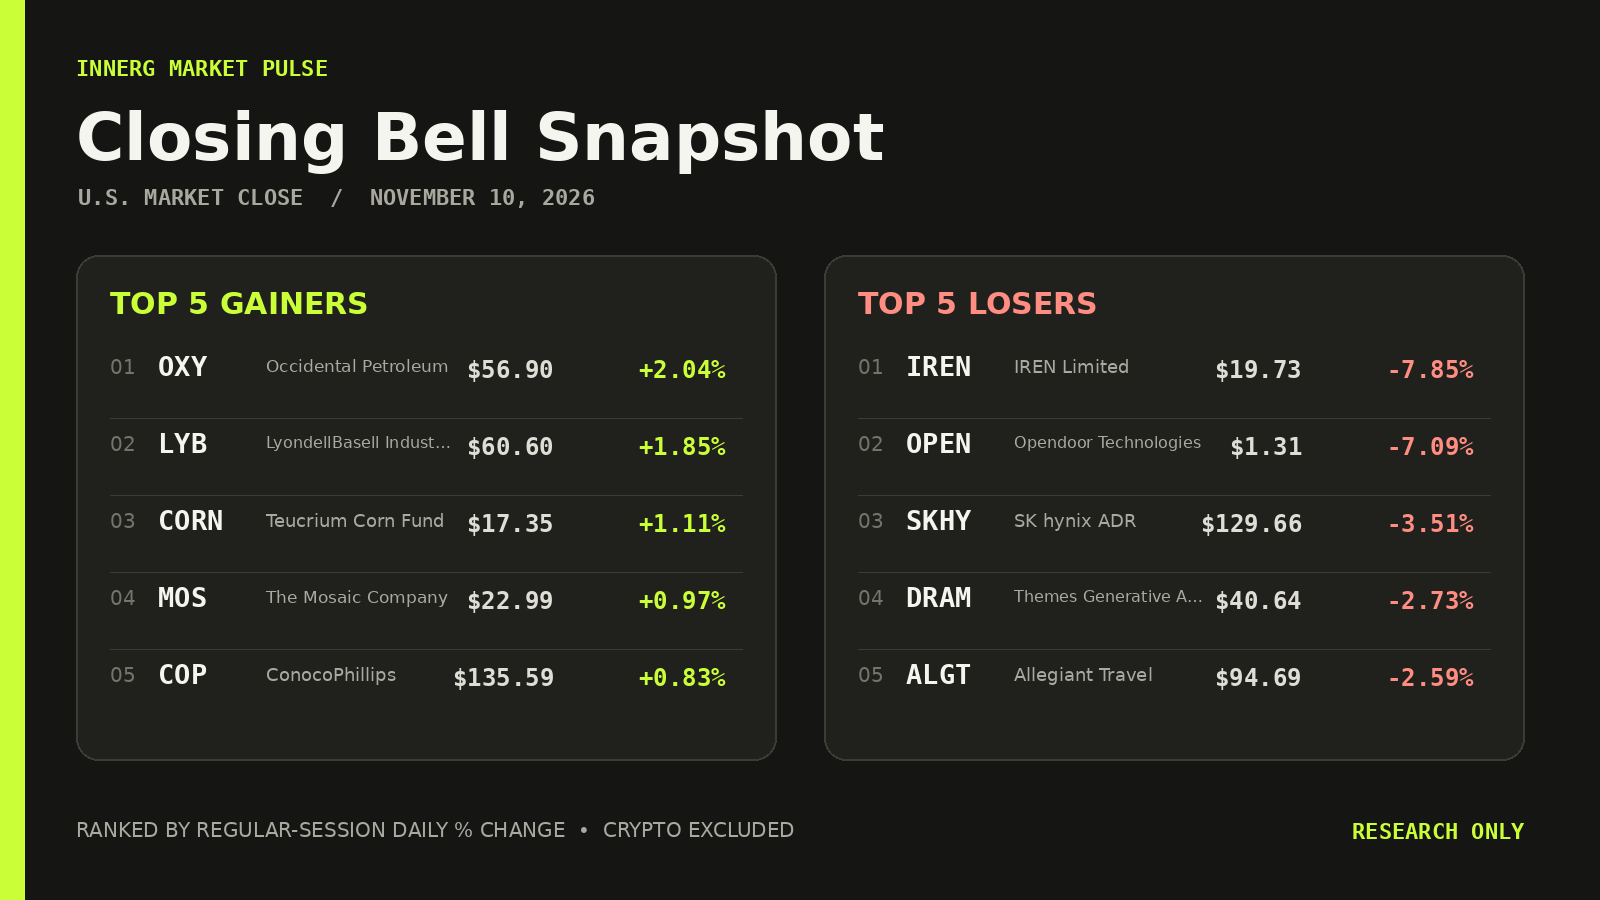
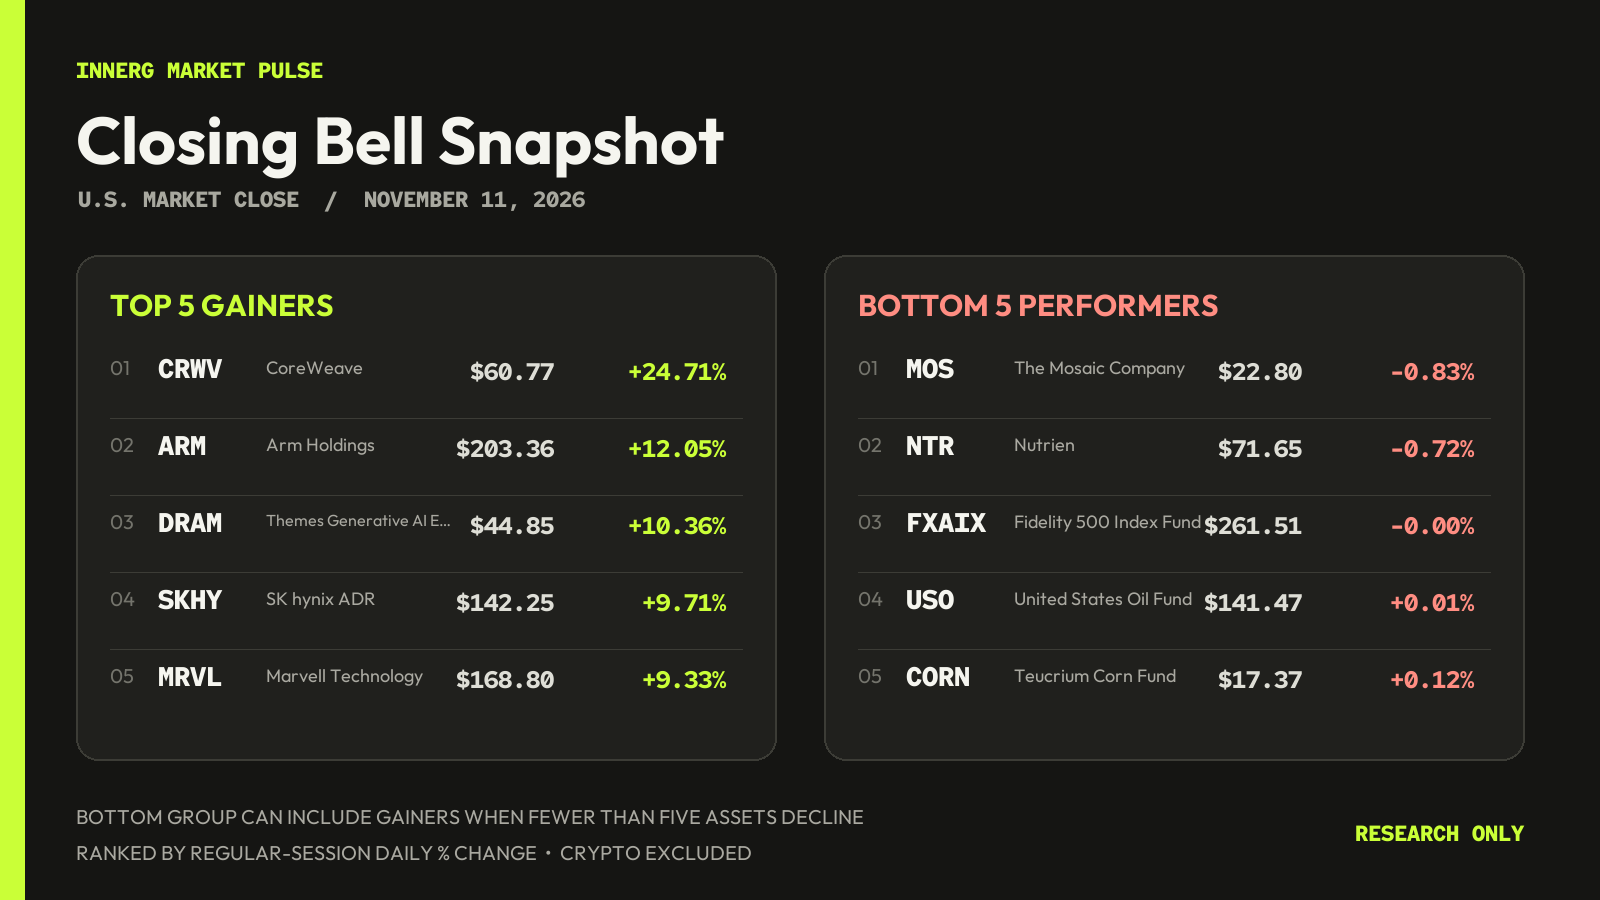
Publish Nov 11 closing report

diff --git a/scripts/build_closing_report.py b/scripts/build_closing_report.py
@@ -123,7 +123,7 @@ def render_graphic(report: dict) -> None:
     market_date = dt.date.fromisoformat(report["marketDate"]).strftime("%B %d, %Y").replace(" 0", " ")
     draw.text((78, 184), f"U.S. MARKET CLOSE  /  {market_date.upper()}", font=eyebrow, fill="#a8a89f")
 
-    columns = [(76, "TOP 5 GAINERS", report["gainers"], "#caff37"), (824, "TOP 5 LOSERS", report["losers"], "#ff8d82")]
+    columns = [(76, "TOP 5 GAINERS", report["gainers"], "#caff37"), (824, "BOTTOM 5 PERFORMERS", report["losers"], "#ff8d82")]
     for x, heading, items, accent in columns:
         draw.rounded_rectangle((x, 255, x + 700, 760), radius=22, fill="#20201d", outline="#3c3c36", width=2)
         draw.text((x + 34, 286), heading, font=section, fill=accent)
@@ -141,7 +141,8 @@ def render_graphic(report: dict) -> None:
             change = f"{item['changePercent']:+.2f}%"
             draw.text((x + 650, y), change, font=value, fill=accent, anchor="ra")
 
-    draw.text((76, 818), "RANKED BY REGULAR-SESSION DAILY % CHANGE  •  CRYPTO EXCLUDED", font=small, fill="#aaa9a1")
+    draw.text((76, 804), "BOTTOM GROUP CAN INCLUDE GAINERS WHEN FEWER THAN FIVE ASSETS DECLINE", font=small, fill="#aaa9a1")
+    draw.text((76, 840), "RANKED BY REGULAR-SESSION DAILY % CHANGE  •  CRYPTO EXCLUDED", font=small, fill="#aaa9a1")
     draw.text((1524, 818), "RESEARCH ONLY", font=eyebrow, fill="#caff37", anchor="ra")
     GRAPHIC.parent.mkdir(parents=True, exist_ok=True)
     image.save(GRAPHIC, optimize=True)
